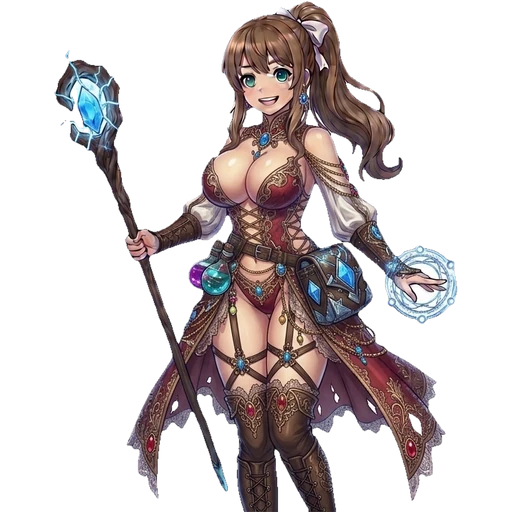
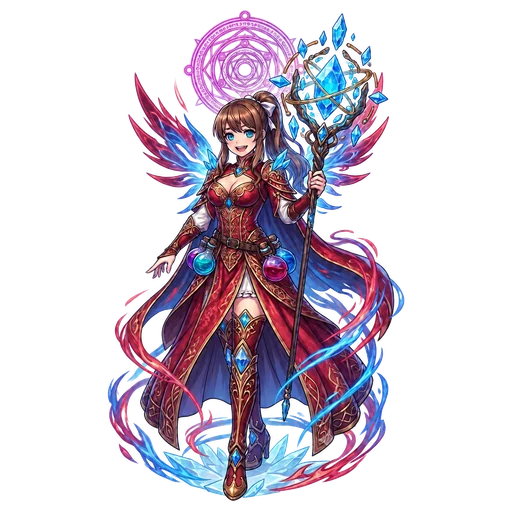
루미나·실비아 메가진화 그림 교체, 하르모니움 쇠+혼 타입
Claude-Session: https://claude.ai/code/session_01GAfPYv1tkAbb9Rk6MJFNve

diff --git a/server/data.js b/server/data.js
@@ -322,8 +322,8 @@ const MONSTERS = {
     ['yellowgust', 'quake', 'rockthrow', 'razorwind', 'windcut', 'wall', 'breeze', 'spirit_up', 'grind', 'guard'],
     'KF94 마스크를 쓴 황사 구름. 본인도 숨이 막혀서 늘 화가 나 있다.'),
   // 무대
-  harmonium:X('하르모니움', ['steel'], 90, 50, 110, 115, 85, 50,
-    ['metalnoise', 'magnet', 'highvolt', 'scold', 'gust', 'charge', 'armor', 'shock', 'lionroar', 'guard'],
+  harmonium:X('하르모니움', ['steel', 'spirit'], 90, 50, 110, 115, 85, 50,
+    ['metalnoise', 'magnet', 'highvolt', 'scold', 'nightmare', 'charge', 'armor', 'shock', 'lionroar', 'guard'],
     '철골 아치 무대가 요괴가 되었다. 양쪽 스피커는 몸이고, 가운데 매달린 유선 마이크가 뇌다. 선이 뽑히면 아무 말도 못 한다.'),
 };
 
@@ -364,8 +364,8 @@ const SIGNATURE = {
 Object.assign(SIGNATURE, {
   neonna: ['neonwink', '네온 디바', '날개가 세 겹으로 늘고 조명이 내려왔다. 왕관까지 불이 들어오면 공연이 시작된다.', [15, 0, 10, 40, 10, 25]],
   yeonji: ['lipmark', '홍염 왕비', '금관을 쓰고 붉은 날개를 펼쳤다. 황금 립스틱은 왕의 지팡이가 되었다.', [10, 0, 20, 40, 30, 0]],
-  lumina: ['crystalbolt', '대마도사 루미나', '수정이 벼락을 두르고 손끝에 마법진이 떠오른다. 보석 장식이 전부 마력으로 빛난다.', [10, 0, 10, 45, 15, 20]],
-  silvia: ['winksnipe', '폭풍 사수 실비아', '활과 화살에 푸른 바람이 감긴다. 룬 문양이 새겨진 경장 갑옷으로 더 가볍고 빨라졌다.', [10, 40, 10, 0, 10, 30]],
+  lumina: ['crystalbolt', '대마도사 루미나', '붉은 망토와 불꽃·얼음 날개를 두르고 머리 위에 마법진을 띄웠다. 지팡이 끝 수정은 고리에 감싸여 공중에서 돈다.', [10, 0, 10, 45, 15, 20]],
+  silvia: ['winksnipe', '폭풍 사수 실비아', '수정 왕관과 초록 갑옷 차림에 룬이 새겨진 바람 날개를 펼쳤다. 활 두 자루와 수십 발의 바람 화살이 주위를 맴돈다.', [10, 40, 10, 0, 10, 30]],
   danjo: ['forge', '프리즘 용사 단조', '모든 재료를 녹여 하나로 만든 무지개 갑옷. 검은 일곱 빛깔로 빛나고 방패의 사자가 금빛으로 깨어났다.', [15, 40, 30, 0, 15, 0]],
   jabanbot: ['canburst', '초합금 자판왕', '어깨에 캔 발사기를 달고 금장을 둘렀다. 화면에 뜬 MAX는 가격이다.', [0, 40, 30, 0, 10, 20]],
   baedalbot: ['bulletdash', '광속 철가방', '바퀴와 몸이 합체해 오토바이가 되었다. 철가방이 둘로 늘어 이제 한 번에 두 집.', [20, 40, 25, 0, 15, 0]],

diff --git a/public/js/battle.js b/public/js/battle.js
@@ -447,8 +447,11 @@ const Battle = (() => {
   const ROMAN = ['', 'Ⅰ', 'Ⅱ', 'Ⅲ', 'Ⅳ'];
   // 얼굴만 잘라 보이는 컷: eyes는 눈매 클로즈업, head는 머리와 어깨
   const crop = (m, cls, box) => monsterSVG(m.species, cls, m.mega, m.hits, m.tier).replace('viewBox="0 0 200 200"', `viewBox="${box}" preserveAspectRatio="xMidYMid slice"`);
-  const bust = (m) => crop(m, 'zx-bust', '70 0 70 70');
-  const eyes = (m) => crop(m, 'zx-bust', '75 17 60 24');
+  // 메가진화 그림은 얼굴 위치가 달라서 따로 자릅니다.
+  const FACE = { 'lumina-mega': ['64 29 60 60', '71 44 45 18'], 'silvia-mega': ['35 21 60 60', '43 36 45 18'] };
+  const face = (m) => FACE[`${m.species}${m.mega ? '-mega' : ''}`] || ['70 0 70 70', '75 17 60 24'];
+  const bust = (m) => crop(m, 'zx-bust', face(m)[0]);
+  const eyes = (m) => crop(m, 'zx-bust', face(m)[1]);
   const magicCircle = (c1, c2) => `<svg class="zx-mc" viewBox="-100 -100 200 200" aria-hidden="true">
     <g fill="none" stroke="${c1}" stroke-width="1.6">
       <circle r="96"/><circle r="88" stroke-dasharray="2 4"/><circle r="62" stroke="${c2}"/><circle r="40"/>
